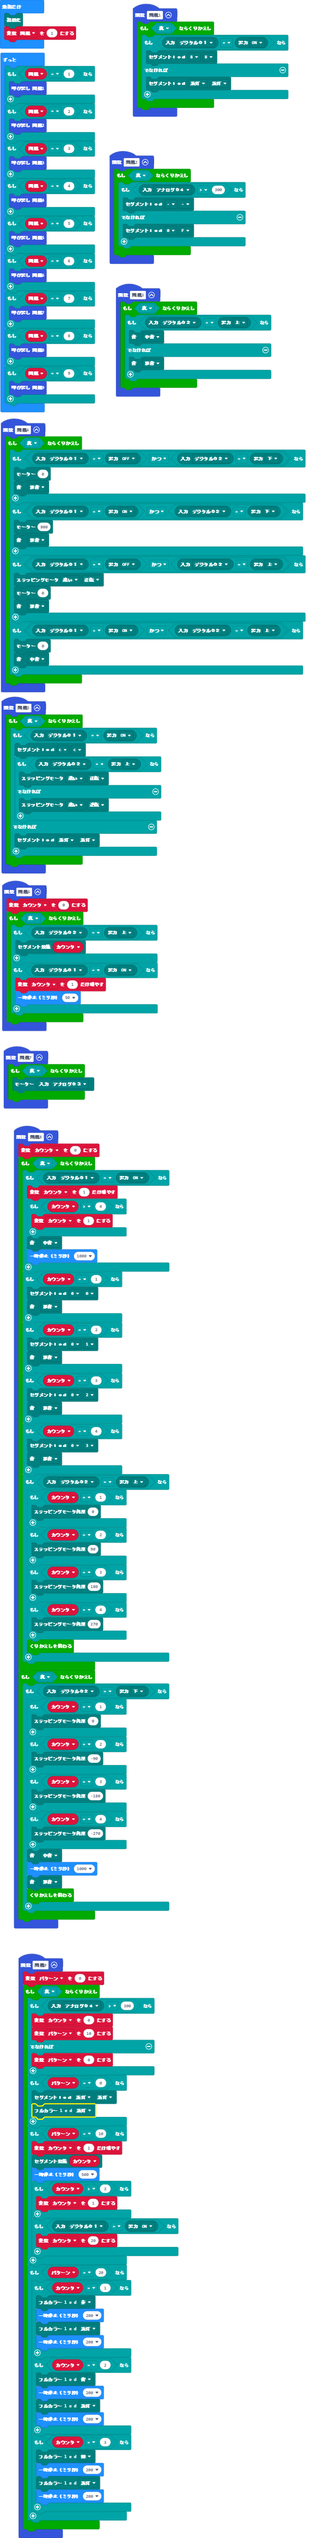
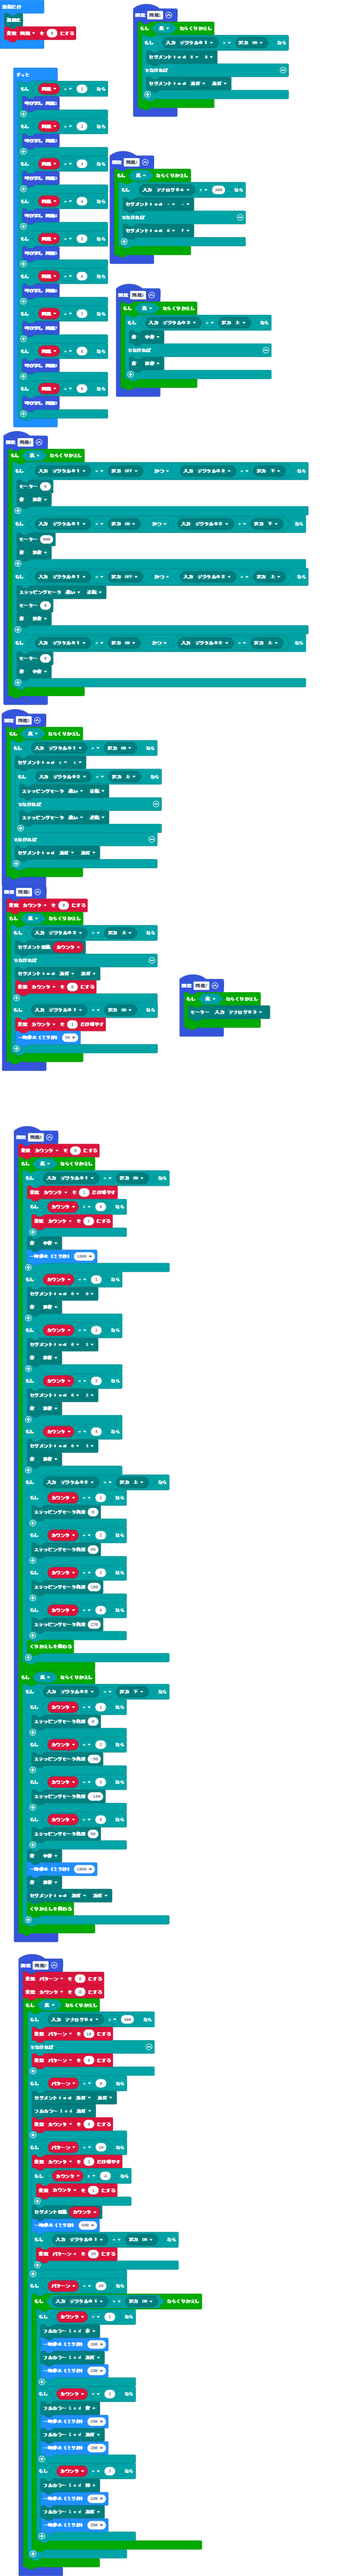
練習問題のデバック済（消灯にならない治っていない）

diff --git a/main.ts b/main.ts
@@ -3,6 +3,9 @@ function 問題6 () {
     while (true) {
         if (custom.入力(io.digital02) == custom.出力(out.UP)) {
             custom.セグメント数値(カウンタ)
+        } else {
+            custom.セグメントＬＥＤ(LED_view.black, LED_view.black)
+            カウンタ = 0
         }
         if (custom.入力(io.digital01) == custom.出力(out.ON)) {
             カウンタ += 1
@@ -12,9 +15,9 @@ function 問題6 () {
 }
 function 問題9 () {
     パターン = 0
+    カウンタ = 0
     while (true) {
         if (custom.入力(io.analog04) > 300) {
-            カウンタ = 0
             パターン = 10
         } else {
             パターン = 0
@@ -22,36 +25,39 @@ function 問題9 () {
         if (パターン == 0) {
             custom.セグメントＬＥＤ(LED_view.black, LED_view.black)
             custom.フルカラーLED(color_type.black)
+            カウンタ = 0
         }
         if (パターン == 10) {
             カウンタ += 1
-            custom.セグメント数値(カウンタ)
-            basic.pause(500)
-            if (カウンタ > 3) {
+            if (カウンタ >= 4) {
                 カウンタ = 1
             }
+            custom.セグメント数値(カウンタ)
+            basic.pause(500)
             if (custom.入力(io.digital01) == custom.出力(out.ON)) {
-                カウンタ = 20
+                パターン = 20
             }
         }
         if (パターン == 20) {
-            if (カウンタ == 1) {
-                custom.フルカラーLED(color_type.red)
-                basic.pause(200)
-                custom.フルカラーLED(color_type.black)
-                basic.pause(200)
-            }
-            if (カウンタ == 2) {
-                custom.フルカラーLED(color_type.blue)
-                basic.pause(200)
-                custom.フルカラーLED(color_type.black)
-                basic.pause(200)
-            }
-            if (カウンタ == 3) {
-                custom.フルカラーLED(color_type.green)
-                basic.pause(200)
-                custom.フルカラーLED(color_type.black)
-                basic.pause(200)
+            while (custom.入力(io.digital01) == custom.出力(out.ON)) {
+                if (カウンタ == 1) {
+                    custom.フルカラーLED(color_type.red)
+                    basic.pause(200)
+                    custom.フルカラーLED(color_type.black)
+                    basic.pause(200)
+                }
+                if (カウンタ == 2) {
+                    custom.フルカラーLED(color_type.blue)
+                    basic.pause(200)
+                    custom.フルカラーLED(color_type.black)
+                    basic.pause(200)
+                }
+                if (カウンタ == 3) {
+                    custom.フルカラーLED(color_type.green)
+                    basic.pause(200)
+                    custom.フルカラーLED(color_type.black)
+                    basic.pause(200)
+                }
             }
         }
     }
@@ -155,18 +161,19 @@ function 問題8 () {
                 custom.ステッピングモータ角度(-180)
             }
             if (カウンタ == 4) {
-                custom.ステッピングモータ角度(-270)
+                custom.ステッピングモータ角度(90)
             }
             custom.音(tone.mid)
             basic.pause(1000)
             custom.音(tone.no)
+            custom.セグメントＬＥＤ(LED_view.black, LED_view.black)
             break;
         }
     }
 }
 function 問題2 () {
     while (true) {
-        if (custom.入力(io.analog04) > 300) {
+        if (custom.入力(io.analog04) < 300) {
             custom.セグメントＬＥＤ(LED_view.minus, LED_view.minus)
         } else {
             custom.セグメントＬＥＤ(LED_view.zero, LED_view.f)
@@ -190,7 +197,7 @@ function 問題5 () {
 let パターン = 0
 let カウンタ = 0
 custom.initialize()
-let 問題 = 1
+let 問題 = 9
 basic.forever(function () {
     if (問題 == 1) {
         問題1()
